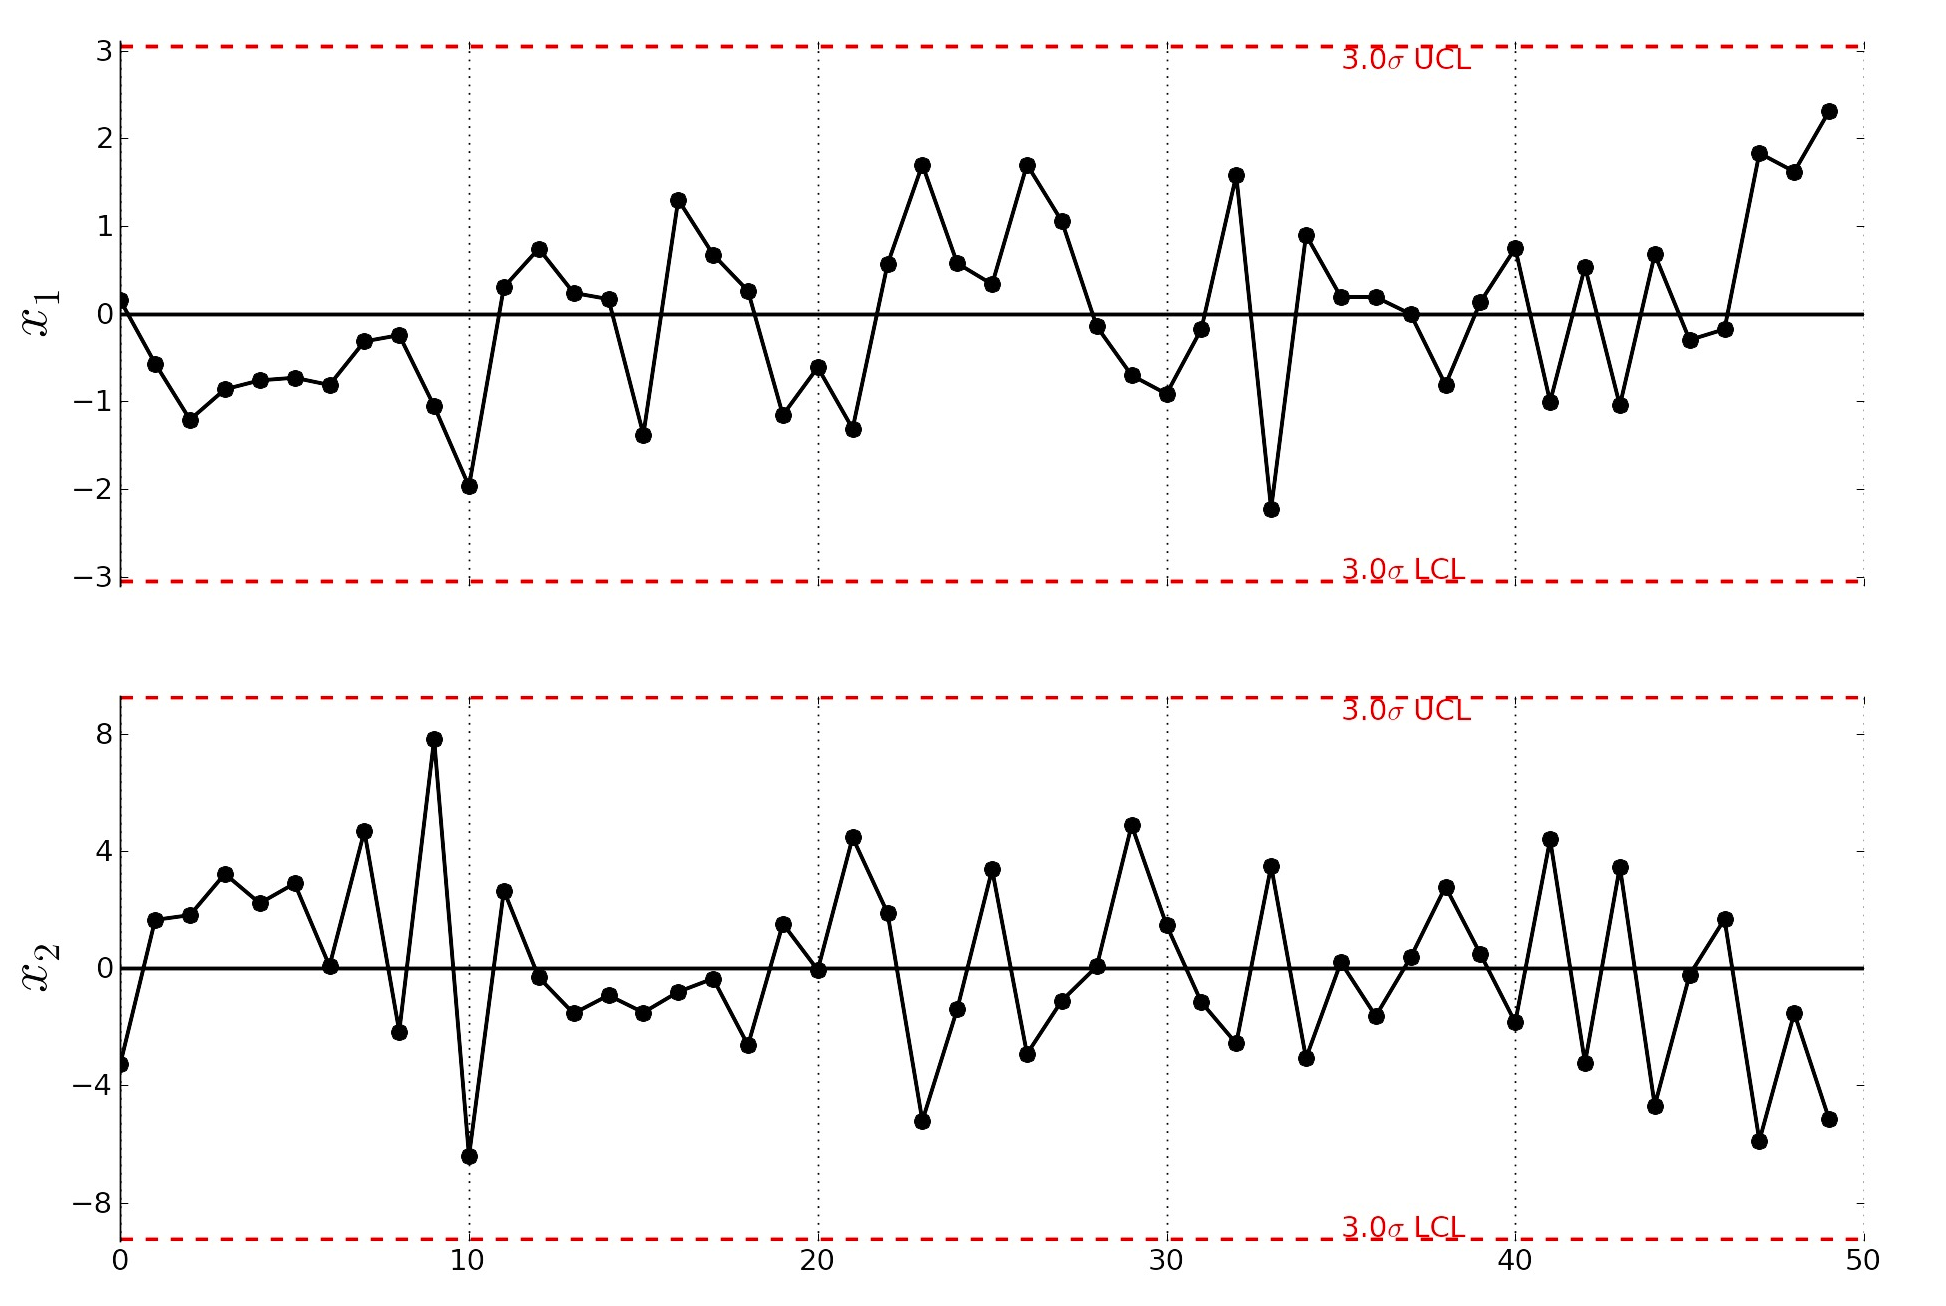
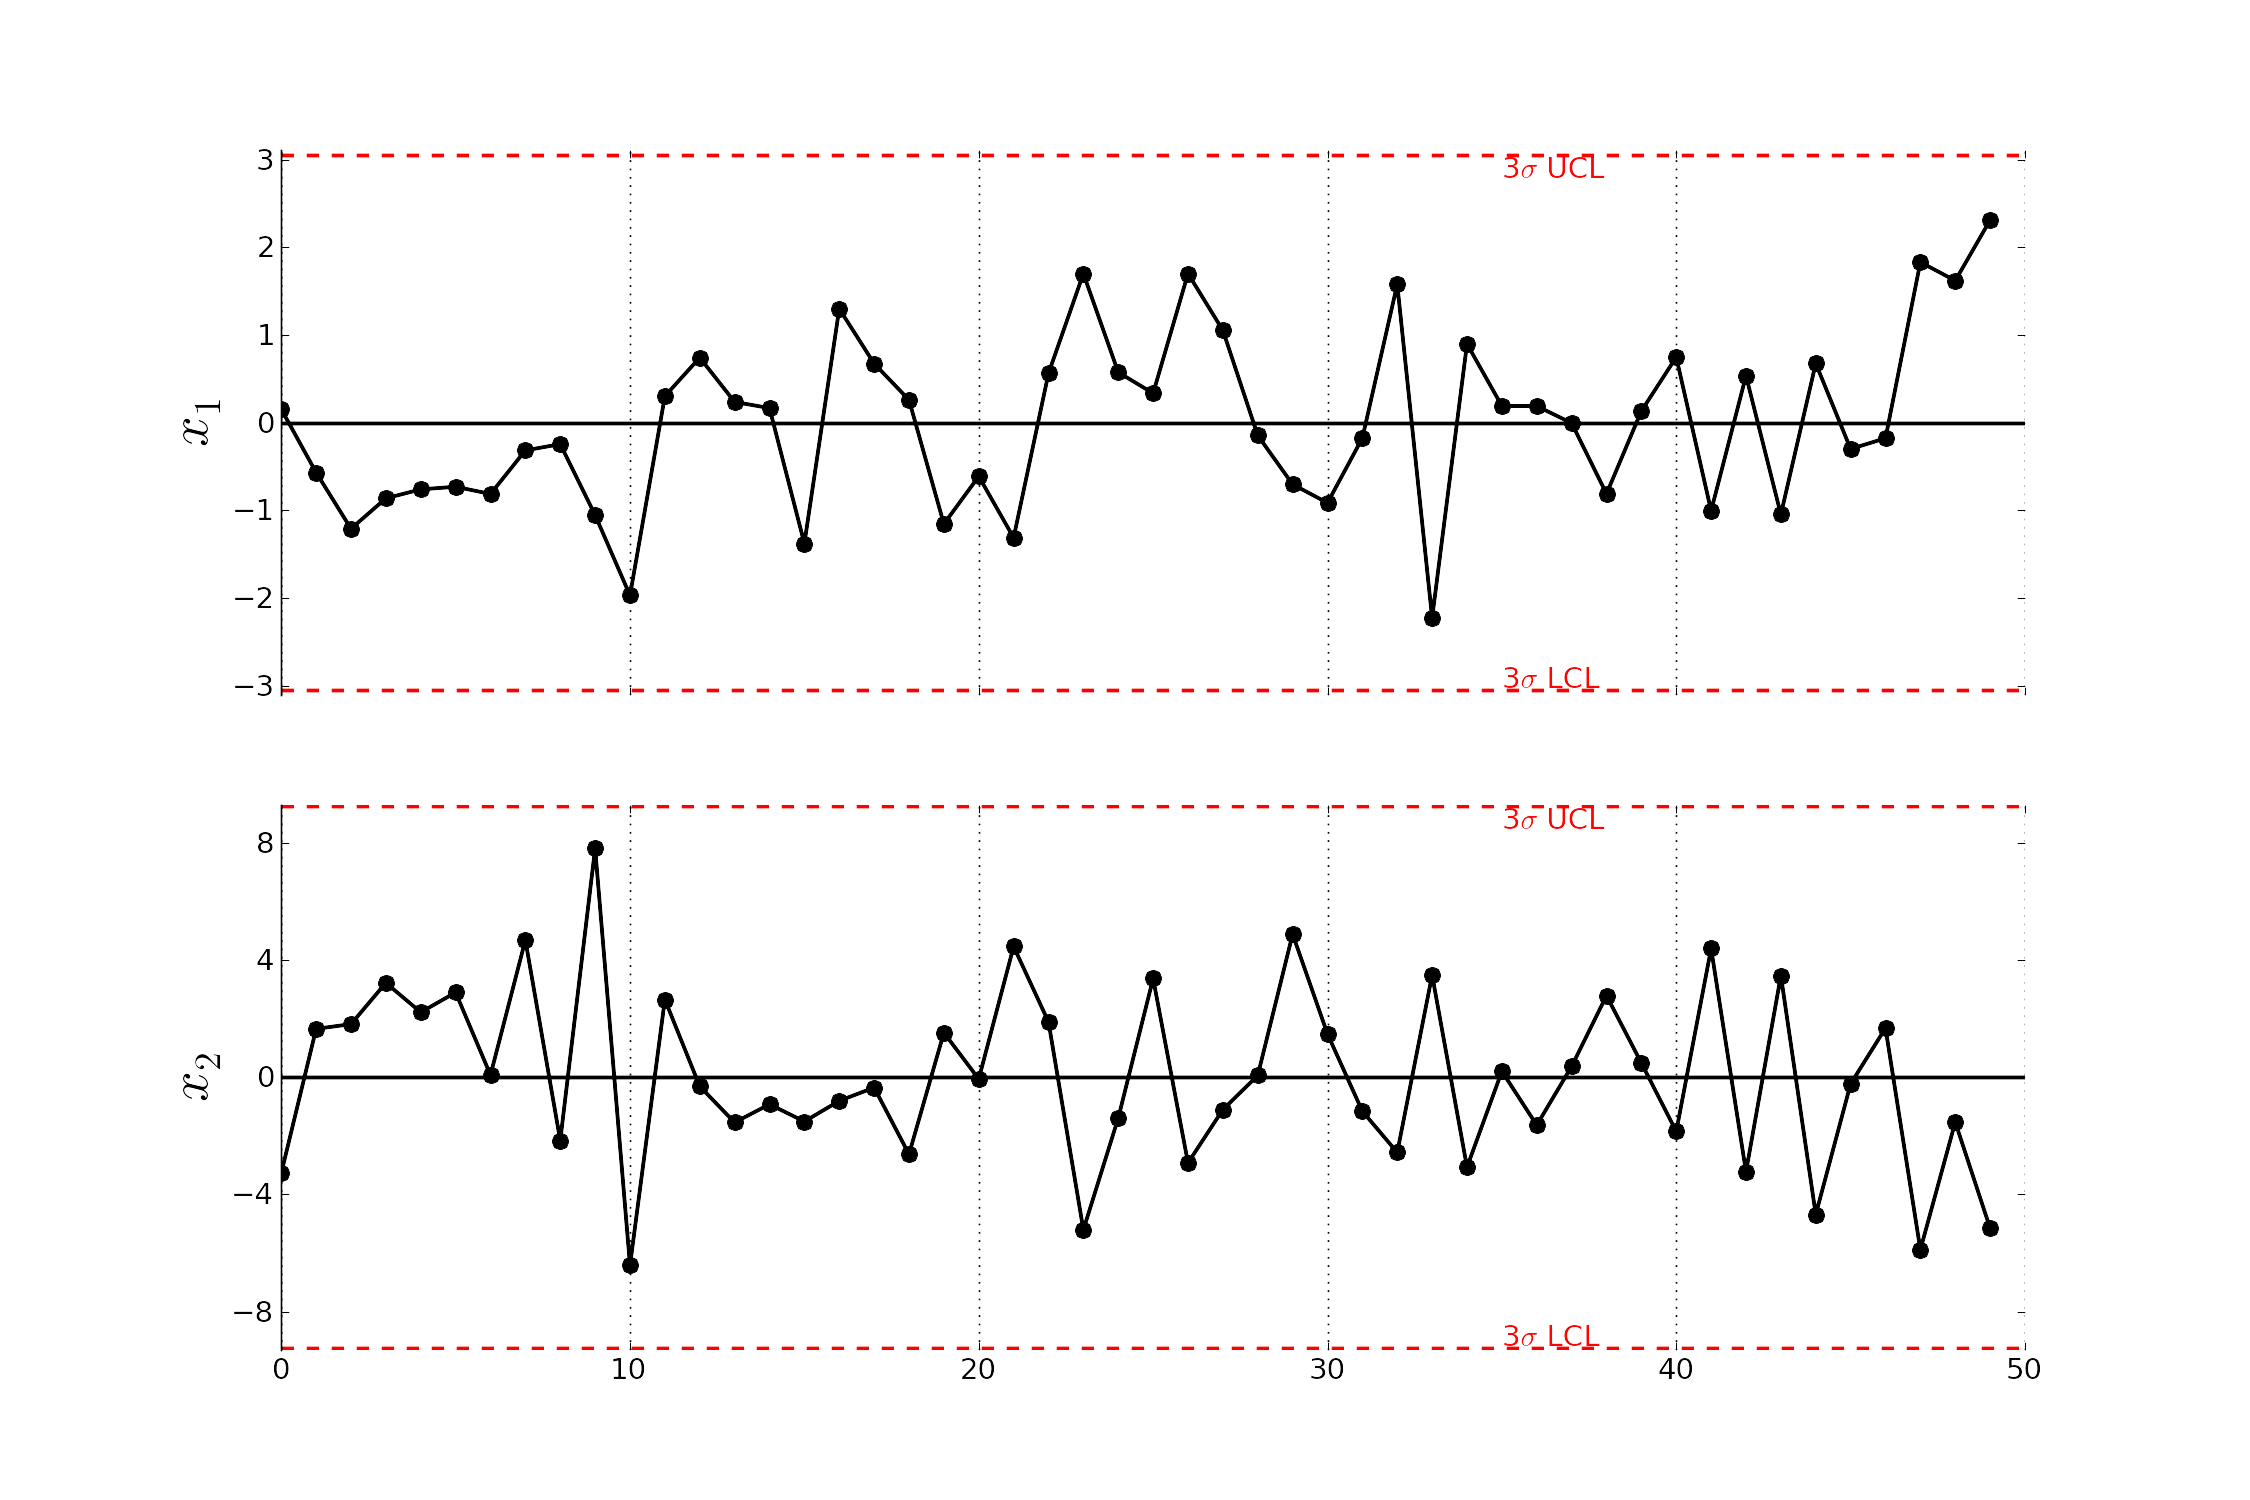
Improved labels on plot

diff --git a/latent-variable-modelling/images/two-axis-monitoring-plot.py b/latent-variable-modelling/images/two-axis-monitoring-plot.py
@@ -44,7 +44,7 @@ def get_ellipse_coordinates(s_h, s_v, T2_limit_alpha, n_points=100):
 np.random.seed(16)
 N = 50
 K = 2
-sigma = 3.0
+sigma = int(3)
 alpha = scipy.stats.norm.cdf(sigma) #0.99
 
 # Note: you must set alpha to match sigma;  e.g. (alpha=0.95, sigma=2)
